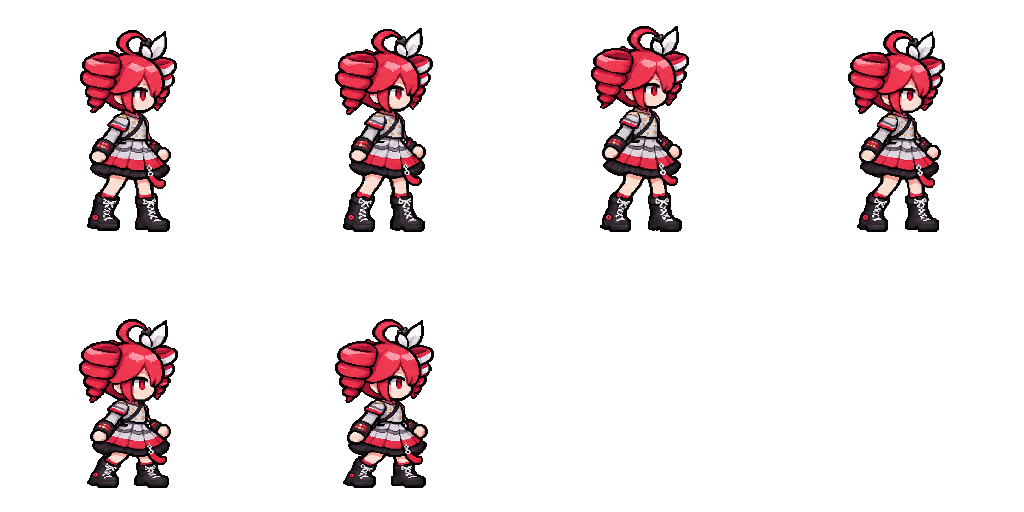
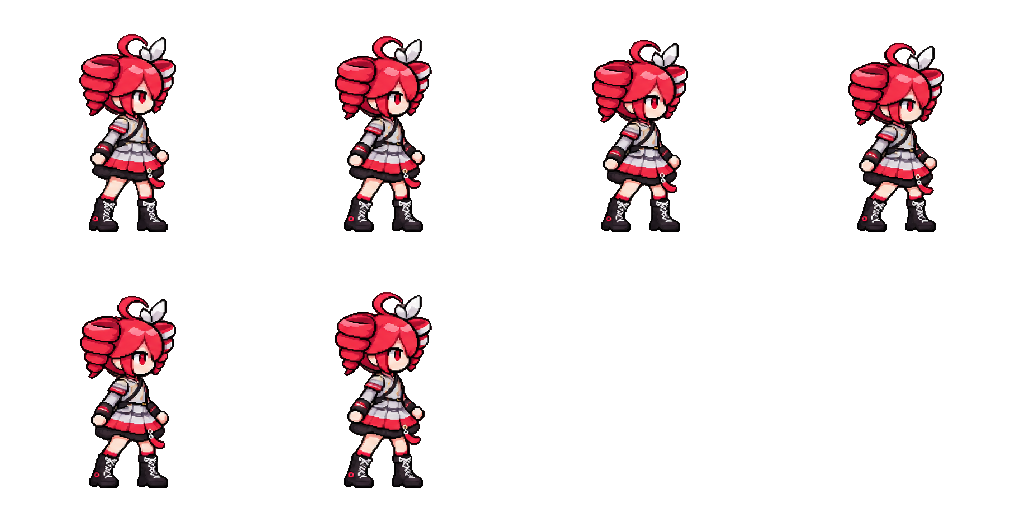
ジャンプ不具合を修正

diff --git a/WORKLOG.md b/WORKLOG.md
@@ -1,10 +1,52 @@
-## Active coyote time implementation
-- Goal/status: Add floor departure grace for contact kick-off; in progress.
-- Decisions: Default0.10s, floor-only grace with last floor normal; any successful kick consumes grace. No wall/ceiling grace, extra airborne jumps or input buffering. Existing Z detach ordering and momentum addition retained. Shared setting0 disables grace.
-- Completed: Read controller, shared settings, prior wall fix and authoritative control docs. User tuning kick350/maximum_length400 preserved.
-- Files/tests: Pending runtime, regression and aligned specs.
+## Completed idle sprite correction
+- Goal/status: Replace shrinking idle motion with shallow knee bends; complete.
+- Completed: Built-in imagegen edit preserving character identity; normalized four upper-row poses at one0.56 nearest scale, sequenced0/1/2/3/2/1 into existing six-frame layout. Replaced normalized and runtime sheets together. Source original preserved;6fps/runtime controller unchanged.
+- Decisions: Feet baseline y232; visible top34/36/40/43/40/36px (maximum2.8px in game); no per-frame height scaling. Final two cells empty. Unrelated workspace edits preserved.
+- Files changed: images/normalized/teto_idle.png, gd-bungee-gum/assets/characters/teto_idle.png, specs/character-sprite-audit.md, AGENTS.md, WORKLOG.md.
+- Verification: Final sheet visually inspected; Python matching-byte/RGBA/1024×512/six-cell/baseline/empty-cell checks PASS. Godot import completed; verify_player.gd PASS (/tmp/idle-player.log), exit0. git diff --check PASS. Editor sandbox emitted known certificate/Mono socket/editor-settings permission warnings; runtime suite unaffected.
+- Refactoring: Reviewed full asset consumption/layout and docs, removed ambiguous scale description; reused existing six-frame resource without new paths or animation machinery.
+- Blockers: None; native in-game appearance not inspected.
+- Next action: F5 inspect idle motion at gameplay zoom.
+
+## Completed coyote gravity compensation
+- Goal/status: Compensate only gravity-acquired inward momentum on coyote kicks; complete.
+- Completed: Track gravity velocity during grace, collision-project it, cap normal correction by tracked inward gravity and current inward external speed. Clear tracker on floor/expiry/kick. Actual walk-off expectations and timing/timestep/slope/momentum regressions updated; controller/controls/settings specs aligned.
+- Decisions: Preserve tangent, current outward and excess downward external momentum; usual contact kicks unchanged. No added settings; saved user tuning (currently kick400/coyote0.2) preserved. Position is never rewound.
+- Files changed: scripts/player.gd, tools/verify_player.gd, specs/keyboard-controls.md, player-controller.md, game-settings.md, AGENTS.md, WORKLOG.md. Other workspace edits preserved.
+- Verification: Full Godot4.5.1 headless player suite PASS (/tmp/coyote-compensation.log, final /tmp/coyote-compensation-final.log); no assertion/script errors. Includes96 timing/timestep/normal/external-speed cases, pure-gravity constant normal launch speed, weak-outward clamp, excess downward and tangent retention; real walk-off/expiry/disabled/consumed/no-repeat and wall/corner/momentum regressions pass. git diff --check PASS. Known unrelated macOS certificate warning only.
+- Refactoring: Reviewed full gravity/contact/collision lifecycle; one vector tracker uses existing collision normals, no external-force source classification or duplicated impulse paths. Expanded cap coverage and suppressed only combinatorial test diagnostic noise before final rerun.
+- Blockers: None; native play feel and user Godot4.7.2 not verified locally.
+- Next action: F5 compare early/late coyote inputs after walking off ledges, including while carrying gum momentum.
+
+## Completed coyote launch-height design review
+- Goal/status: Evaluate downward-velocity cancellation during coyote kick; analysis complete, runtime unchanged.
+- Findings: Player adds gravity before adding kick along remembered floor normal. Current saved tuning kick350/gravity1100/coyote0.2 allows roughly220px/s downward speed to offset kick, leaving130px/s upward; ideal rise from input point falls55.7→7.7px. Player regression currently requires pure additive impulse, so correction must update assertions.
+- Recommendation: Compensate the downward normal component attributable to gravity accrued since floor departure before the usual kick; bound compensation by both current inward normal speed and accrued gravity. Preserve tangent momentum, outward speed and excess downward gum/impact momentum. Simpler full downward-normal reset guarantees launch speed but erases externally acquired falling momentum; explicit design tradeoff. Compensate normal grounded gravity too if matching contact-launch speed is required.
+- Decisions: No implementation requested. Keep grace single-use, expiration and detach ordering; test early/late departure, slopes, upward/tangent velocity, strong downward momentum and consumed grace on adoption.
+- Files changed: WORKLOG.md, AGENTS.md (verified additive behavior note) only.
+- Verification: Read current player integration order, shared saved tuning and physics momentum requirements; values are ideal flat-floor estimates, no runtime measurement.
+- Blockers: None for design.
+- Next action: On implementation request, add bounded gravity compensation accounting and update regression/specs; compare launch speed across grace timings.
+
+## Completed loosen color implementation
+- Goal/status: Apply approved LOOSEN #B8A6AD; complete.
+- Completed: Added shared Gum Loosen Color; line/pivots/endpoint use mode color regardless of tension. CONTRACT palette and physical width/sag unchanged. Controls/settings docs and durable guidance aligned.
+- Files changed: scripts/game_settings.gd, scripts/gum_connection.gd, specs/keyboard-controls.md, specs/game-settings.md, AGENTS.md, WORKLOG.md.
+- Decisions: Opaque color; no physics/HUD changes. Existing workspace edits preserved.
+- Verification: Original gum suite fails saved-map scenarios with current maximum_length400 (/tmp/loosen-color-gum.log). Temporary duplicate settings with maximum_length900 passes full gum suite plus exact opaque color load check (/tmp/loosen-color-final.log); real resource untouched, temporary script removed. git diff --check PASS. Known macOS certificate warning only. Native visual review not performed.
+- Refactoring: Reviewed draw/settings area; explicit mode override keeps one shared color for line/pivots/endpoint and existing tension width, no physics changes. Final suite ran after cleanup of drawing logic.
 - Blockers: None.
-- Next action: Implement timer and verify actual walk-off, expiry, disable and consumed-jump cases on physics ticks.
+- Next action: F5 toggle X and review gray loosen line at normal/wide zoom.
+
+## Completed coyote time implementation
+- Goal/status: Add floor-departure grace for contact kick-off; complete.
+- Completed: Shared Player Movement/coyote_time default0.10s, floor-normal capture, fixed-step countdown, consume-on-any-kick, ACCEPTED_COYOTE and remaining-time logs. Actual platform walk-off regression covers accepted grace, expiry, zero setting, consumed normal kick and repeated-air rejection. Control/controller/direction/implementation/settings docs aligned.
+- Decisions: Floor-only grace, additive momentum along last floor normal,0 disables; no extra jump after kick, no wall/ceiling refill or input buffering. Existing Z detach-first ordering and user kick350/max-length400 tuning preserved.
+- Files changed: scripts/player.gd, scripts/game_settings.gd, tools/verify_player.gd; specs/player-controller.md, keyboard-controls.md, game-direction.md, stage-action-concept.md, bungee-gum-prototype.md, godot-implementation-plan.md, game-settings.md; AGENTS.md, WORKLOG.md.
+- Verification: Full headless player suite PASS before/after refactor (/tmp/coyote-player-final.log, /tmp/coyote-refactor.log), including wall-landing jumps, no air jump, momentum, corner settling and physical key mappings. git diff --check PASS. Local Godot4.5.1; known unrelated macOS certificate warning. First test expected vertical impulse incorrectly; real capsule-edge floor normal is angled, now regression checks captured floor normal as designed.
+- Refactoring: Simplified nested kick decision branches; one eligibility calculation shared by log and impulse. Centralized detailed control policy in keyboard-controls; broader specs reference it.
+- Blockers: None. Native play feel not checked.
+- Next action: F5 walk off ledge and press Z just after departure; tune Coyote Time in shared settings Inspector if desired.
 
 ## Completed gum mode visibility review
 - Goal/status: Evaluate loosen-mode feedback and subdued gray candidate; review complete, runtime unchanged.

diff --git a/AGENTS.md b/AGENTS.md
@@ -102,8 +102,12 @@
 
 - Floor kick eligibility recovers on floor contact even with continuous wall contact; wall/ceiling-only contact does not rearm. verify_player.gd checks three consecutive jumps on saved-stage left wall without any fully non-contact tick.
 
-- Gum line color currently encodes tension only (pink→red), not CONTRACT/LOOSEN; width also follows tension and sag follows actual slack. When changing state feedback, distinguish fixed-length LOOSEN mode from zero tension; either mode can be taut or slack.
+- Gum LOOSEN color is opaque pink-gray #B8A6AD independent of tension (Gum Loosen Color); CONTRACT retains pink→red tension colors. Line/pivots/endpoint share color; width follows tension and sag actual slack. Either mode can be taut or slack.
 
 - Floor coyote grace uses shared Player Movement/coyote_time (default0.10s,0 disables), last floor normal and fixed-step countdown. Any successful contact/coyote kick consumes it; wall/ceiling do not refill. verify_player.gd covers walk-off/expiry/disabled/consumed/no-repeat cases. JumpDiagnostic includes coyote seconds and ACCEPTED_COYOTE.
 
-- For gum feedback, user prefers subdued gray-like loosen color over prominent blue-violet; pink-gray #B8A6AD is an unimplemented candidate requiring in-game readability checks.
+- User prefers subdued gray-like loosen feedback over prominent blue-violet.
+
+- Coyote kicks cancel only accumulated gravity velocity inward along the remembered floor normal, capped by current inward external speed, before adding kick_speed. coyote_gravity_velocity follows collision projection and resets on floor/expiry/kick; tangent, outward and excess external momentum remain. verify_player.gd covers delay/timestep/slope/external-speed combinations.
+
+- Idle sheet uses six-frame shallow knee-bend ping-pong poses (0/1/2/3/2/1),6fps; keep normalized/runtime copies identical, baseline y232 and one common scale across poses. See specs/character-sprite-audit.md.

diff --git a/specs/player-controller.md b/specs/player-controller.md
@@ -19,3 +19,5 @@ F5で `scenes/game.tscn` を実行。A/Dまたは左右矢印で走り、Zで接
 接地キックの使用可否は、床に接触しているティック、または床・壁・天井すべてに接触していないティックで回復する。壁に接触し続けて着地しても床キックを再使用できる。壁／天井だけの継続接触では回復せず、コヨーテタイム外の空中のZ入力は加速しない。
 
 床離脱時の入力猶予（コヨーテタイム）は共有設定`coyote_time`（初期値0.10秒、0で無効）で制御する。床接触中に残り時間と床法線を更新し、非接地ティックで時間を減らす。非接触でも残り時間があれば最後の床法線方向へ一度だけ接地キックを加算できる。床・壁・天井でのキックを含め、成功したキックは猶予を消費する。壁／天井の離脱では猶予を補充せず、通常ジャンプ後の二段ジャンプや入力先行受付は設けない。Zのガム切断はキック判定より先に行う。
+
+コヨーテキック直前には、離床後に重力で増えた速度のうち、最後の床法線と逆向きの成分だけを補正する。補正量は現在の外部速度の同方向成分以下に制限し、床法線に沿う通常の蹴り出しを加算する。床に沿う速度・上向きの勢い・重力分を超えるガムや衝突由来の落下速度は保持する。重力の補正用速度も実際の衝突法線で投影し、地形が既に取り除いた分を補正に再利用しない。床接触で補正用速度をリセットし、猶予切れまたはキック成功で消去する。通常の接触キックの速度加算は変更しない。

diff --git a/specs/godot-implementation-plan.md b/specs/godot-implementation-plan.md
@@ -135,4 +135,4 @@ move_and_slide()
 - [RigidBody2D](https://docs.godotengine.org/en/stable/classes/class_rigidbody2d.html): 継続的な力、接着点への力、CCD。
 - [Ray-casting](https://docs.godotengine.org/en/stable/tutorials/physics/ray-casting.html): 固定更新中の照準・接着判定。
 
-床離脱時の入力猶予（コヨーテタイム）は共有設定`coyote_time`（初期値0.10秒、0で無効）で制御する。床接触中に残り時間と床法線を更新し、非接地ティックで時間を減らす。非接触でも残り時間があれば最後の床法線方向へ一度だけ接地キックを加算できる。床・壁・天井でのキックを含め、成功したキックは猶予を消費する。壁／天井の離脱では猶予を補充せず、通常ジャンプ後の二段ジャンプや入力先行受付は設けない。Zのガム切断はキック判定より先に行う。
+床離脱後は`coyote_time`（初期値0.10秒、0で無効）の間、一度だけ接地キックを受け付ける。成功したキックは猶予を消費する。詳細は[キーボード操作](keyboard-controls.md)を参照。

diff --git a/specs/game-direction.md b/specs/game-direction.md
@@ -261,4 +261,4 @@ player_velocity = locomotion_velocity + external_momentum
 本作の中心的な楽しさは、正解を見つけることだけではない。**物理関係を理解し、即興で組み替え、自分の操作で美しい結果へ変えること**である。
 
 
-床離脱時の入力猶予（コヨーテタイム）は共有設定`coyote_time`（初期値0.10秒、0で無効）で制御する。床接触中に残り時間と床法線を更新し、非接地ティックで時間を減らす。非接触でも残り時間があれば最後の床法線方向へ一度だけ接地キックを加算できる。床・壁・天井でのキックを含め、成功したキックは猶予を消費する。壁／天井の離脱では猶予を補充せず、通常ジャンプ後の二段ジャンプや入力先行受付は設けない。Zのガム切断はキック判定より先に行う。
+床離脱後は`coyote_time`（初期値0.10秒、0で無効）の間、一度だけ接地キックを受け付ける。成功したキックは猶予を消費する。詳細は[キーボード操作](keyboard-controls.md)を参照。
